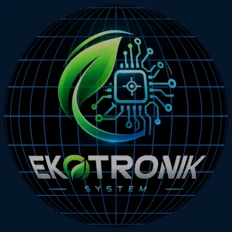
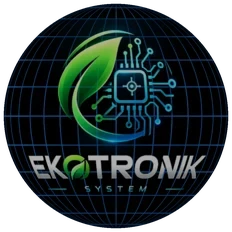
Hero: nowe tlo z obwodami (zamiast granatu i warstw PCB), poster kuli z przezroczystymi rogami (#48)
Claude-Session: https://claude.ai/code/session_01GeBrJ5gvKGAaCoi5k1vFeb

Changed region(s): [[0.0, 0.0, 1.0, 1.0]]

diff --git a/index.html b/index.html
@@ -97,8 +97,9 @@
     .brand-kula canvas,.brand-kula .kula-rim{position:absolute;left:50%;top:50%;width:232px;height:232px;transform:translate(-50%,-50%);pointer-events:none}
     @media (max-width: 720px){.brand-kula{width:190px;height:177px;background-size:192px}.brand-kula canvas,.brand-kula .kula-rim{width:192px;height:192px}}
     /* tlo hero: jednolity granat jak w logo; bez ozdobnikow obok logo */
-    .hero-card{background:#07182c !important}
-    .hero-bg{background:#07182c !important;filter:none !important;transform:none !important}
+    .hero-card{background:#030a14 !important}
+    .hero-bg{background:linear-gradient(rgba(3,10,20,.35),rgba(3,10,20,.35)),#030a14 url("assets_v8/hero/tlo_obwody.webp") center/cover no-repeat !important;filter:none !important;transform:none !important}
+    @media (max-width:720px){.hero-bg{background-image:linear-gradient(rgba(3,10,20,.35),rgba(3,10,20,.35)),url("assets_v8/hero/tlo_obwody_tel.webp") !important}}
     .hero-bg::after{display:none !important}
     .hero-card .scan,.hero-left .eko-logo-wrap,.hero-left .brand-text{display:none !important}
     .brand-logo{width:230px;height:auto;display:block;border-radius:18px;filter: drop-shadow(0 16px 26px rgba(0,0,0,.55))}
@@ -1266,6 +1267,8 @@ html.boot-seen #bootScreen{display:none!important}
 }
   </script>
   <script src="config.public.js"></script>
+<link rel="preload" as="image" href="assets_v8/hero/tlo_obwody.webp" media="(min-width:721px)" fetchpriority="low">
+<link rel="preload" as="image" href="assets_v8/hero/tlo_obwody_tel.webp" media="(max-width:720px)" fetchpriority="low">
 </head>
 <body class="ignition">
 <script>try{if(sessionStorage.getItem("eko_boot_seen")==="1")document.documentElement.classList.add("boot-seen");sessionStorage.setItem("eko_boot_seen","1")}catch(e){}</script>
@@ -1430,7 +1433,6 @@ html.boot-seen #bootScreen{display:none!important}
   <div class="wrap hero">
     <div class="hero-card reveal" id="heroCard">
       <div class="hero-bg" id="heroBg"></div>
-      <div class="pcb-bg" aria-hidden="true"><div class="pcb-in" id="pcbIn"><img src="assets_v8/hero/pcb_tlo.svg" alt="" width="1200" height="1400" decoding="async"></div><img class="pcb-cl" id="pcbCl" src="assets_v8/hero/pcb_cl.svg" alt="" width="880" height="520" decoding="async"><canvas id="pcbTw" aria-hidden="true"></canvas></div>
       <div class="scan" aria-hidden="true"></div>
 
       <div class="hero-inner">
